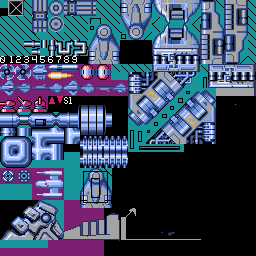
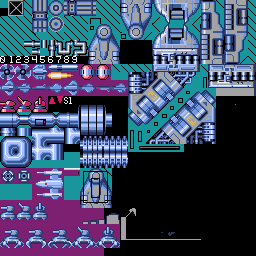
最終ステージ途中

Changed region(s): [[0.0, 0.6562, 0.4688, 0.9688], [0.125, 0.6875, 0.1562, 0.75]]

diff --git a/source/enemy.py b/source/enemy.py
@@ -1947,7 +1947,7 @@ class Walker1(EnemyBase):
 		self.top = 24
 		self.right = 55
 		self.bottom = 47
-		self.hp = 20000
+		self.hp = 500
 		self.layer = gcommon.C_LAYER_GRD
 		self.score = 200
 		self.exptype = gcommon.C_EXPTYPE_GRD_M
@@ -2115,27 +2115,43 @@ class Spider1(EnemyBase):
 		self.rad1 = 0
 		self.legHeight = 48.5
 		self.moveState = 0
+		self.state = 2
 
 	def update(self):
 		self.rad1 = self.legPos * math.pi * 2  * self.legAngle /360 /self.legMax
 		if self.state == 0:
-			if self.x < 120:
+			if self.x < 90:
 				self.nextState()
 		elif self.state == 1:
-			self.x += 1
-			self.moveState = 0
-			self.legPos += 1
-			if self.legPos == self.legMax:
+			self.walkForward()
+			if self.x >= 180:
 				self.nextState()
-				self.moveState = 1
 		elif self.state == 2:
-			if self.x < 120:
-				self.nextState()
+			self.walkBackward()
+			if self.x < 30:
+				self.setState(1)
+
+	# 左に歩く
+	def walkForward(self):
+		self.x += 1
+		if self.moveState == 0:
+			self.legPos += 1
+			if self.legPos >= self.legMax:
+				self.moveState = 1
 		else:
-			self.x += 1
 			self.legPos -= 1
-			if self.legPos == 0:
-				self.setState(0)
+			if self.legPos <= 0:
+				self.moveState = 0
+	# 右に歩く
+	def walkBackward(self):
+		self.x -= 1
+		if self.moveState == 0:
+			self.legPos -= 1
+			if self.legPos <= 0:
+				self.moveState = 1
+		else:
+			self.legPos += 1
+			if self.legPos >= self.legMax:
 				self.moveState = 0
 
 	# 1  2  3
@@ -2221,13 +2237,12 @@ class Shutter2(EnemyBase):
 		self.top = -4
 		self.right = 4
 		self.bottom = 4
-		self.hp = 10
 		self.rad1 = 0
 		self.isUpper = isUpper
 		self.waitTime = waitTime
 		self.layer = gcommon.C_LAYER_UNDER_GRD
 		self.hitCheck = True
-		self.shotHitCheck = True
+		self.shotHitCheck = False
 		self.enemyShotCollision = False
 		self.polygonList1 = []
 		self.polygonList1.append(gcommon.Polygon(Shutter2.poly1, 13))
@@ -2246,4 +2261,100 @@ class Shutter2(EnemyBase):
 		else:
 			gcommon.drawPolygons(gcommon.getAnglePolygons2([self.x, self.y], self.polygonList1, [7.5,28], self.rad1 -math.pi, 1, 1))
 
+def drawTank1(x, y, mirror):
+	dr8 = 0
+	dr8 = gcommon.get_direction_my(x+8, y +8)
+	sx = 0
+	sy = 224
+	width = 24
+	height = 24
+	y = int(y)
+	if mirror == 0:
+		if dr8  in (0, 1):
+			pyxel.blt(x, y, 1, sx, sy, -width, height, gcommon.TP_COLOR)
+		elif dr8 == 2:
+			pyxel.blt(x, y, 1, sx +96, sy, width, height, gcommon.TP_COLOR)
+		elif dr8 in (3, 4):
+			pyxel.blt(x, y, 1, sx, sy, width, height, gcommon.TP_COLOR)
+		elif dr8 in (5, 6):
+			pyxel.blt(x, y, 1, sx +72, sy, width, height, gcommon.TP_COLOR)
+		elif dr8 == 7:
+			pyxel.blt(x, y, 1, sx +72, sy, -width, height, gcommon.TP_COLOR)
+	else:
+		if dr8 == 0:
+			pyxel.blt(x, y, 1, sx, sy, -width, -height, gcommon.TP_COLOR)
+		elif dr8 == 1:
+			pyxel.blt(x, y, 1, sx +72, sy, -width, -height, gcommon.TP_COLOR)
+		elif dr8 == 2:
+			pyxel.blt(x, y, 1, sx +96, sy, width, -height, gcommon.TP_COLOR)
+		elif dr8 == 3:
+			pyxel.blt(x, y, 1, sx +72, sy, width, -height, gcommon.TP_COLOR)
+		elif dr8 == 4:
+			pyxel.blt(x, y, 1, sx, sy, width, -height, gcommon.TP_COLOR)
+		elif dr8 == 5:
+			pyxel.blt(x, y, 1, sx, sy, width, -height, gcommon.TP_COLOR)
+		elif dr8 == 6:
+			pyxel.blt(x, y, 1, sx +96, sy, width, -height, gcommon.TP_COLOR)
+		elif dr8 == 7:
+			pyxel.blt(x, y, 1, sx +72, sy, -width, -height, gcommon.TP_COLOR)
 
+class Tank1(EnemyBase):
+	# 0 :左に移動, 移動先座標
+	# 1 :右に移動, 移動先座標
+	# 2 :攻撃, 0
+	actionPatterns = [
+		[[0, 50], [2, 0], [1, 200], [2, 0], [0, -20]],
+		[[1, 200],[2, 0], [0, 50], [2, 0], [1, 150], [0, -20]],
+		[[1, 150],[2, 0], [0, 50], [2, 0], [1, 100], [2, 0], [0, -20]]
+	]
+	def __init__(self, t):
+		super(Tank1, self).__init__()
+		self.x = t[2]
+		self.y = t[3]
+		self.mirror = t[4]	# 0: normal 1:上下逆
+		self.actionPattern = t[5]
+		self.left = 4
+		self.top = 4
+		self.right = 19
+		self.bottom = 19
+		self.hp = 10
+		self.layer = gcommon.C_LAYER_GRD
+		self.actions = Tank1.actionPatterns[self.actionPattern]
+
+	def update(self):
+		action = self.actions[self.state][0]
+		param = self.actions[self.state][1]
+		if action == 0:
+			# 右から左に移動
+			self.x -= 1
+			if self.x <= -16:
+				self.remove()
+			elif self.x <= param:
+				self.nextState()
+		elif action == 1:
+			# 左から右に移動
+			self.x += 1
+			self.x += gcommon.cur_scroll_x
+			if self.x > gcommon.SCREEN_MAX_X:
+				self.remove()
+			elif self.x >= param:
+				self.nextState()
+		elif action == 2:
+			if self.cnt == 30:
+				enemy_shot(self.x+8,self.y+10, 2, 0)
+			if self.cnt >= 60:
+				self.nextState()
+
+	def draw(self):
+		action = self.actions[self.state][0]
+		if action == 2:
+			drawTank1(self.x, self.y, self.mirror)
+		else:
+			height = 24
+			if self.mirror == 1:
+				height = -height
+			sx = ((self.cnt>>2) % 3) * 24
+			if action == 0:
+				pyxel.blt(self.x, self.y, 1, sx, 224, 24, height, gcommon.TP_COLOR)
+			elif action == 1:
+				pyxel.blt(self.x, self.y, 1, sx, 224, -24, height, gcommon.TP_COLOR)

diff --git a/source/graslay.py b/source/graslay.py
@@ -1702,7 +1702,13 @@ class MainGame:
 	def initStoryLast(self):
 		self.story=[ \
 			[260, enemy.Walker1, 256, 266],		\
-			[3000, enemy.Spider1, 300, 64.5],		\
+			[500, enemy.Tank1, 256, 144, 0, 0],	\
+			[530, enemy.Tank1, 256, 24, 1, 0],	\
+			[600, enemy.Tank1, -16, 144, 0, 1],	\
+			[630, enemy.Tank1, -16, 24, 1, 1],	\
+			[800, enemy.Tank1, -16, 144, 0, 2],	\
+			[830, enemy.Tank1, -16, 24, 1, 2],	\
+			[3200, enemy.Spider1, 300, 64.5],		\
 		]
 
 def parseCommandLine():
